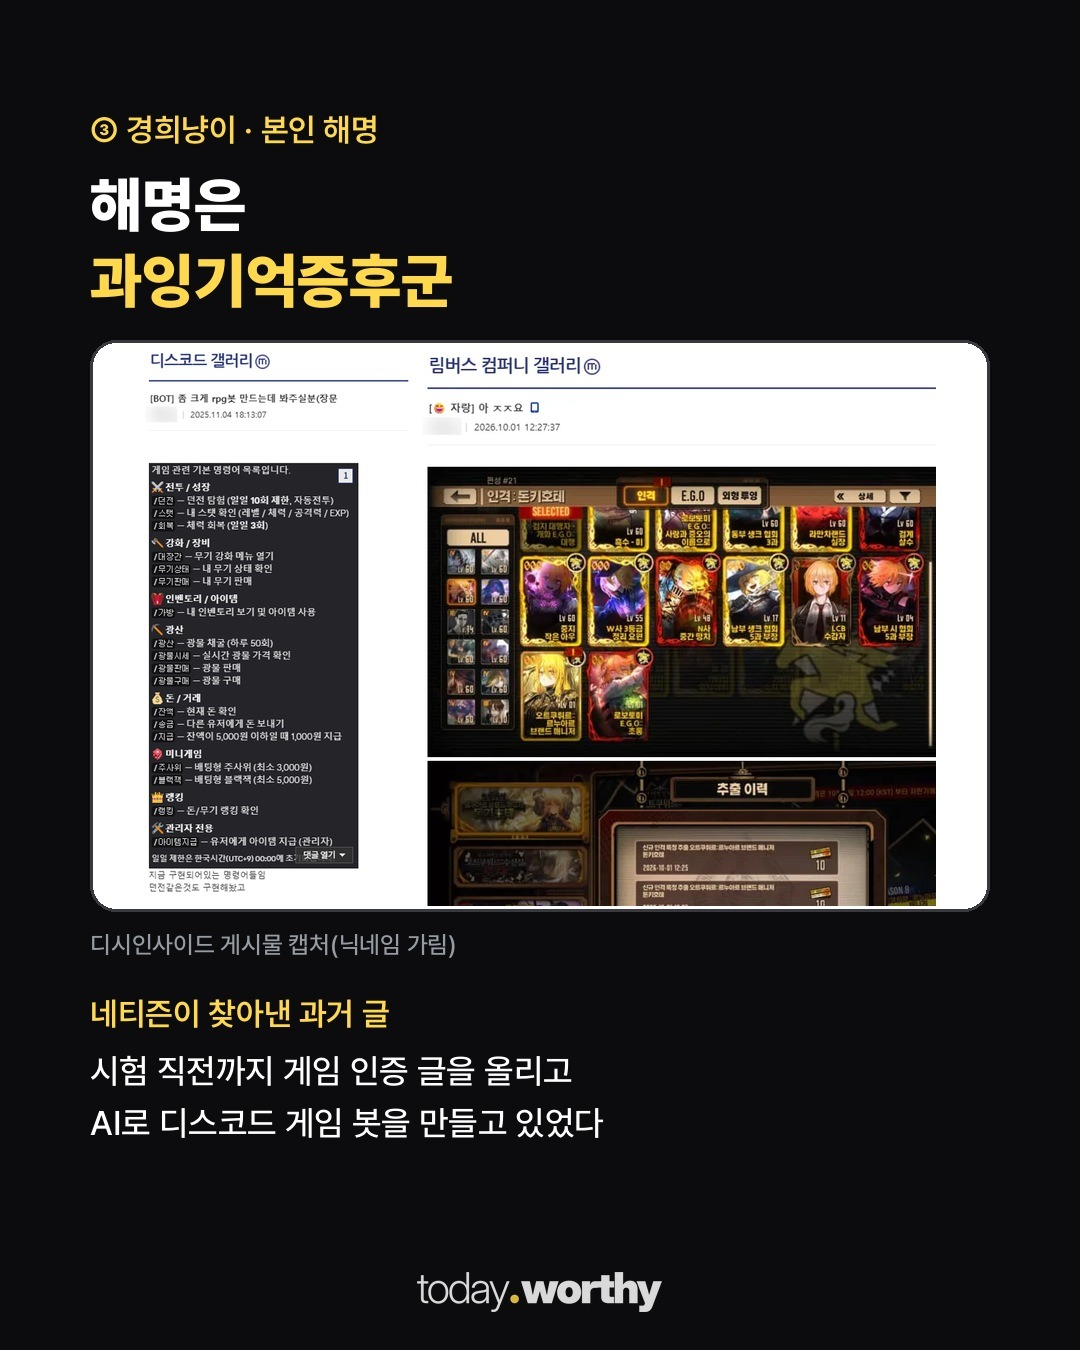
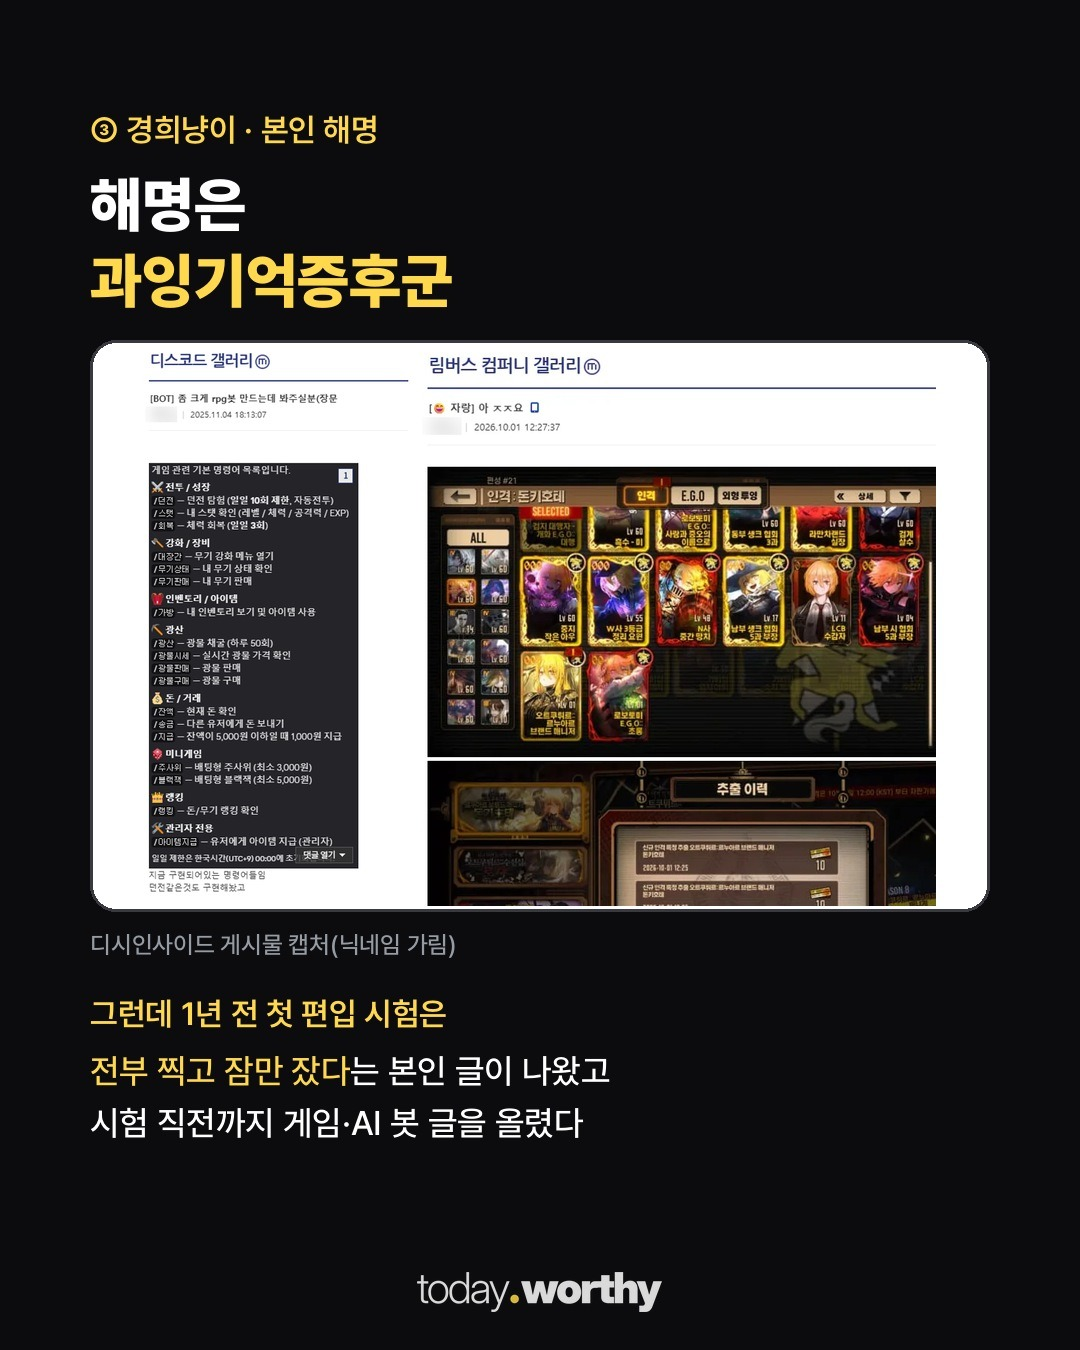
nyang3: 경희냥이 '첫 편입 시험은 찍고 잤다' 반박 추가
Claude-Session: https://claude.ai/code/session_01FGsw5QnWxFUsnopcB1Czie

Changed region(s): [[0.0917, 0.7156, 0.5806, 0.84]]

diff --git a/media/20261117-nyang3/build_cards.py b/media/20261117-nyang3/build_cards.py
@@ -43,7 +43,7 @@ specs = [
  {"out": str(O / "c06.jpg"), "sub": "③ 경희냥이 · 경희대 컴공 편입 합격생", "title": "두 달 뒤 30문제를\n'통째로' 복기", "cap": str(O / "cap_khu.png"), "cap_max_h": 580, "box_bg": [255, 255, 255],
   "caption": "디시인사이드 게시물 캡처(손글씨 복기)", "label": "기출 공개 전에 올린 손글씨", "lines": ["학교가 나중에 공개한 시험지와", "번호·보기 '순서까지' 모두 일치"]},
  {"out": str(O / "c07.jpg"), "sub": "③ 경희냥이 · 본인 해명", "title": "해명은\n'과잉기억증후군'", "cap": str(O / "cap_game.png"), "cap_max_h": 560, "box_bg": [255, 255, 255],
-  "caption": "디시인사이드 게시물 캡처(닉네임 가림)", "label": "네티즌이 찾아낸 과거 글", "lines": ["시험 직전까지 게임 인증 글을 올리고", "AI로 디스코드 게임 봇을 만들고 있었다"]},
+  "caption": "디시인사이드 게시물 캡처(닉네임 가림)", "label": "그런데 1년 전 첫 편입 시험은", "lines": ["'전부 찍고 잠만 잤다'는 본인 글이 나왔고", "시험 직전까지 게임·AI 봇 글을 올렸다"]},
 ]
 sp = Path("/tmp/nyang3_specs.json"); sp.write_text(json.dumps(specs, ensure_ascii=False))
 subprocess.run([sys.executable, str(R / "scripts/post_cap_card.py"), str(sp)], check=True)
